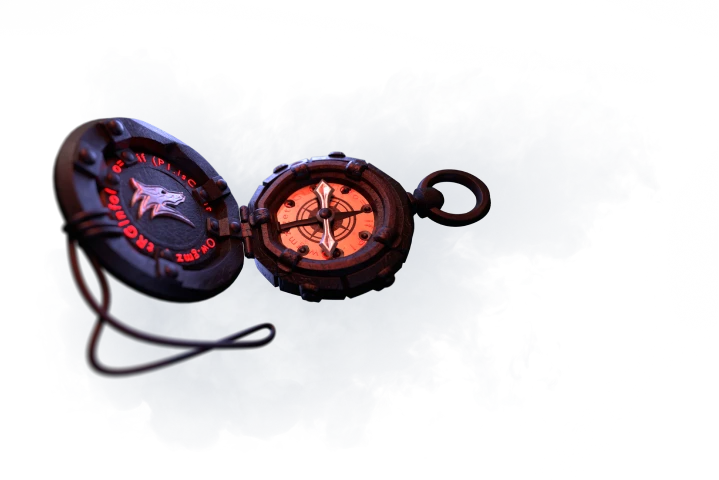
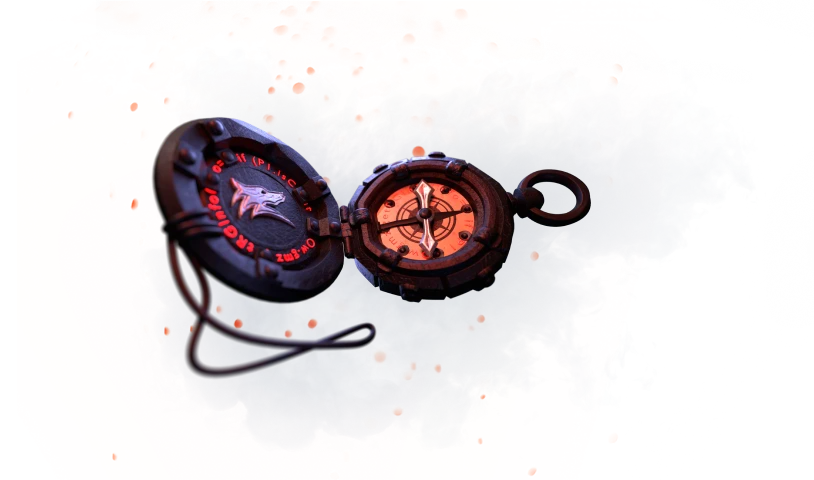
holly smokes and sparks in community sections

diff --git a/website/src/components/home-page/community/community.scss b/website/src/components/home-page/community/community.scss
@@ -1,10 +1,5 @@
 .community-section {
-  padding: 0 16px 100px;
   overflow: hidden;
-
-  @media (max-width: 600px) {
-   padding-bottom: 20px;
-  }
 
   > div {
     max-width: 1112px;
@@ -14,6 +9,12 @@
 
   .info {
     max-width: 538px;
+    position: relative;
+    z-index: 1;
+
+    @media (max-width: 600px) { 
+     padding: 0 16px;
+    }
 
     svg {
       width: 62px;
@@ -27,7 +28,7 @@
       line-height: 48px;
       margin-bottom: 8px;
 
-      @media (max-width: 600px) {
+      @media (max-width: 960px) {
         font-size: 32px;
         line-height: 48px;
       }
@@ -44,8 +45,10 @@
     display: flex;
     align-items: center;
     flex-direction: row-reverse;
+    position: relative;
+    min-height: 562px;
 
-    @media (max-width: 800px) {
+    @media (max-width: 960px) {
       flex-direction: column-reverse;
       text-align: center;
 
@@ -55,37 +58,50 @@
     }
 
     .assets {
-      position: relative;
+      position: absolute;
+      top: 0;
+      left: -174px;
+      width: 814px;
+      height: 562px;
+      background-image: url(/img/home-2023/smoke.webp);
+      background-position: center center;
+      background-repeat: no-repeat;
+      background-size: contain;
 
-      .mobile {
-        display: none;
+      @media (max-width: 960px) { 
+        position: unset;
+        background-image: url(/img/home-2023/community-poster.webp);
+        width: 550px;
+        height: 356px;
+        background-position: left 30px center;
+      }
 
-        @media (max-width: 800px) {
-          display: block;
-        }
+      @media (max-width: 600px) { 
+        height: 356px;
+        width: 360px;
+        background-size: 500px;
+        background-position: left -80px center;
+      }
+
+      @media (max-width: 400px) { 
+        width: 100%;
       }
 
       .sign-video {
         position: absolute;
-        left: 90px;
-        top: 40px;
-        z-index: 3;
+        left: 290px;
+        top: 50px;
 
         @media (max-width: 1024px) {
-          width: 270px;
-          left: 30px;
+          width: 300px;
+          left: 200px;
         }
 
-        @media (max-width: 800px) {
+        @media (max-width: 960px) {
           display: none;
         }
       }
-      
-      .sparks {
-        @media (max-width: 800px) {
-          display: none;
-        }
-      }
+
       
     }
     
@@ -93,54 +109,57 @@
 
   .game-developer {
     position: relative;
+    min-height: 480px;
+    display: flex;
+    justify-content: center;
+    flex-direction: column;
 
     @media (max-width: 800px) {
-      display: flex;
       flex-direction: column-reverse;
+      align-items: center;
       text-align: center;
     }
 
     .assets {
       position: absolute;
-      right: 0;
       top: 0;
-      width: 100%;
-      height: 100%;
+      right: -130px;
+      width: 814px;
+      height: 480px;
+      background-image: url(/img/home-2023/smoke2.webp);
+      background-position: center center;
+      background-repeat: no-repeat;
+      background-size: contain;
 
-      @media (max-width: 800px) {
+      @media (max-width: 800px) { 
         position: unset;
+        background-image: url(/img/home-2023/compass-poster.webp);
+        width: 550px;
+        height: 356px;
+        background-position: left 40px center;
+        margin: auto;
       }
 
-      .mobile {
-        display: none;
-
-        @media (max-width: 800px) {
-          display: block;
-          position: relative;
-          right: -50px;
-        }
+      @media (max-width: 600px) { 
+        height: 356px;
+        width: 360px;
+        background-size: 500px;
+        background-position: left -10px center;
       }
 
-      .smoke {
-        position: absolute;
-        top: -90px;
-        right: -160px;
-        width: 718px;
-        height: 480px;
-
-        @media (max-width: 800px) {
-          display: none;
-        }
+      @media (max-width: 400px) { 
+        width: 100%;
       }
 
       .compass-video {
         position: absolute;
-        right: 40px;
-        top: 10px;
-        z-index: 3;
+        left: 150px;
+        top: 90px;
 
         @media (max-width: 1024px) {
           width: 370px;
+          left: unset;
+          right: 150px;
         }
 
         @media (max-width: 960px) {

diff --git a/website/src/components/home-page/community/community.jsx b/website/src/components/home-page/community/community.jsx
@@ -19,9 +19,6 @@ const Community = (props) => {
           <video className="sign-video" autoPlay loop muted playsInline poster="/img/home-2023/community-poster.webp">
             <source src="/img/home-2023/video/sign.webm" type="video/webm" />
           </video>
-          <img src='/img/home-2023/community-poster.webp' alt='' className='mobile'/>
-          {/* <img src='/img/home-2023/smoke.webp' alt='' className='smoke'/> */}
-          <img src='/img/home-2023/sparks.webp' alt='' className='sparks'/>
         </div>
       </div>
 
@@ -38,8 +35,6 @@ Give your community tools to create valuable in-game content for your game with 
           <video className="compass-video" autoPlay loop muted playsInline poster="/img/home-2023/compass-poster.webp">
             <source src="/img/home-2023/video/compass.webm" type="video/webm" />
           </video>
-          <img src='/img/home-2023/compass-poster.webp' alt='' className='mobile'/>
-          <img src='/img/home-2023/smoke2.webp' alt='' className='smoke'/>
         </div>
 
       </div>

diff --git a/website/src/components/footer/footer.scss b/website/src/components/footer/footer.scss
@@ -89,6 +89,7 @@
               display: flex;
               align-items: center;
               gap: 8px;
+              width: fit-content;
 
               & + li {
                 margin-top: 16px;
@@ -99,6 +100,17 @@
                 height: 24px;
                 color: var(--color-999);
               }
+
+              &:hover {
+                a {
+                  color: var(--color-txt);
+                  text-decoration: underline;
+                }
+
+                svg {
+                  color: var(--color-txt);
+                }
+              }
   
               a {
                 font-size: 16px;
@@ -108,11 +120,6 @@
                 text-underline-offset: 3px;
                 letter-spacing: 0.02em;
   
-                &:hover {
-                  // color: var(--color-headline);
-                  text-decoration: underline;
-                }
-          
                  &.is-active {
                   color: var(--color-headline);
                   text-decoration: underline;
